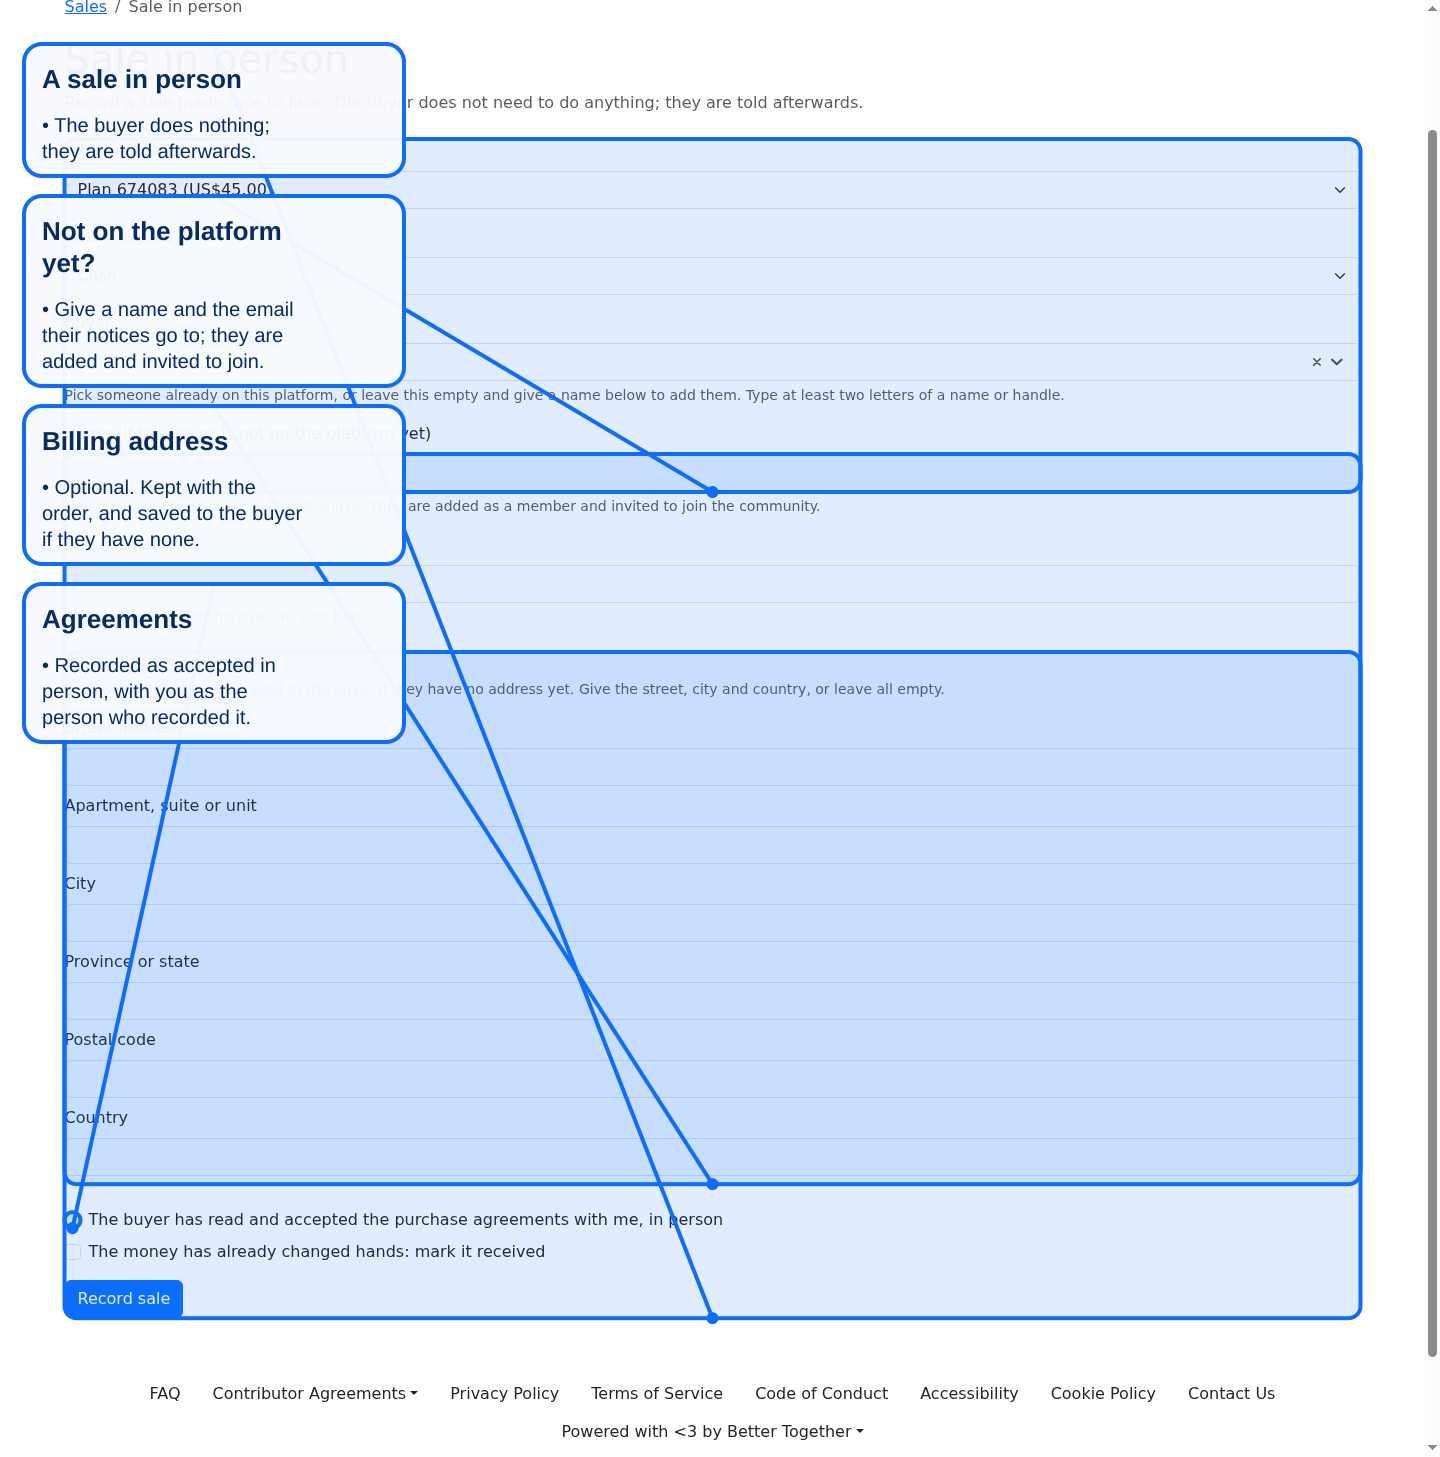
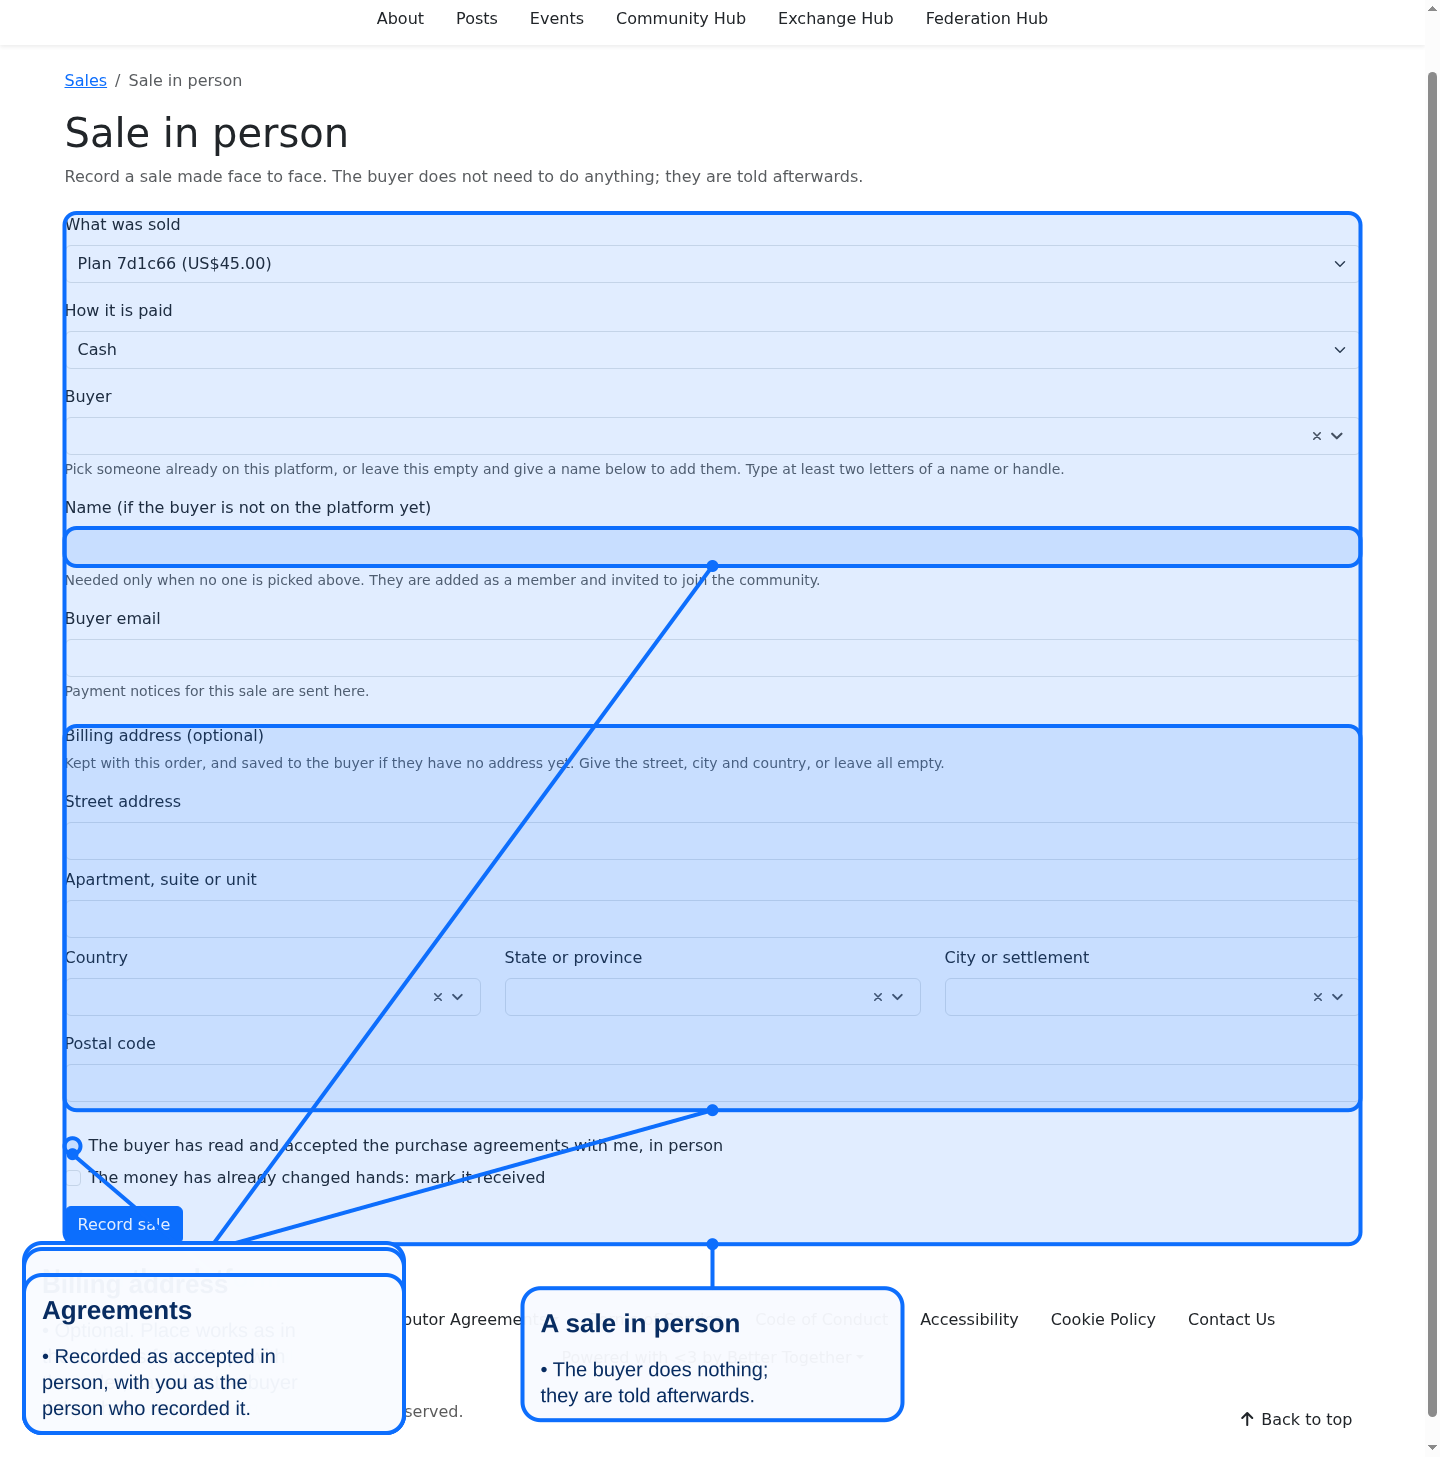
feat(billing): walk-up billing address uses the geography country, state and city selects
The walk-up form now reuses the address form's cascading selects. A chosen record fills in its parents and
overwrites the text columns, a state outside the chosen country is refused, and typed text still works. The
address is built through the Address model for validation, kept on the order with the chosen ids, and tax uses
the linked country and state.

diff --git a/app/services/better_together/billing/offline_payments/walk_up.rb b/app/services/better_together/billing/offline_payments/walk_up.rb
@@ -20,7 +20,8 @@ module BetterTogether
 
         def self.call(...) = new(...).call
 
-        ADDRESS_FIELDS = %w[line1 line2 city_name state_province_name postal_code country_name].freeze
+        ADDRESS_FIELDS = %w[line1 line2 city_name state_province_name postal_code country_name country_id state_id settlement_id].freeze
+        ADDRESS_NAMES = %w[line1 line2 city_name state_province_name postal_code country_name].freeze
         ADDRESS_REQUIRED = %w[line1 city_name country_name].freeze
 
         def initialize(platform:, seller:, plan:, payment_method:, agreements_accepted:, buyer_email:, buyer: nil, buyer_name: nil, # rubocop:disable Metrics/ParameterLists
@@ -30,7 +31,8 @@ module BetterTogether
           @buyer = buyer
           @buyer_name = buyer_name
           @buyer_email = buyer_email.to_s.strip.downcase
-          @billing_address = clean_address(billing_address)
+          @address = build_address(billing_address)
+          @billing_address = snapshot(@address)
           @invitation = nil
           @plan = plan
           @payment_method = payment_method.to_s
@@ -43,6 +45,7 @@ module BetterTogether
           raise Refused, 'that way of paying is not available' unless method_available?
 
           check_buyer_details!
+          check_address!
           order = Order.transaction { sell }
           send_invitation
           order
@@ -74,6 +77,14 @@ module BetterTogether
           billing_address.blank? || ADDRESS_REQUIRED.none? { |key| billing_address[key].blank? }
         end
 
+        # The address goes through the same model as the address form, so a chosen country, state or settlement is
+        # checked against the others and its name is copied into the text columns.
+        def check_address!
+          return if @address.nil? || @address.valid?
+
+          raise Refused, "the billing address is not consistent: #{@address.errors.full_messages.to_sentence}"
+        end
+
         def new_buyer
           result = NewBuyer.call(platform:, inviter: seller, name: buyer_name, email: buyer_email)
           @invitation = result.invitation
@@ -90,15 +101,27 @@ module BetterTogether
 
         # The address given at the sale is theirs to keep: saved on the person when they have none yet.
         def keep_address_on_person
-          return if billing_address.blank? || buyer.addresses.exists?
+          return if @address.nil? || buyer.addresses.exists?
 
           detail = buyer.contact_detail || buyer.create_contact_detail!
-          detail.addresses.create!(billing_address.merge('label' => 'billing', 'postal' => true, 'physical' => false, 'primary_flag' => true))
+          @address.contact_detail = detail
+          @address.save!
         end
 
-        def clean_address(address)
+        def build_address(address)
           values = (address || {}).to_h.stringify_keys.slice(*ADDRESS_FIELDS).transform_values { |value| value.to_s.strip }
-          values.values.all?(&:blank?) ? {} : values
+          return if values.values.all?(&:blank?)
+
+          Address.new(values.merge('label' => 'billing', 'postal' => true, 'physical' => false, 'primary_flag' => true))
+        end
+
+        # What the order keeps: the text as the address form would save it, plus which records were chosen. Built before
+        # validation, so the chosen records' names are filled in here the way the model would.
+        def snapshot(record)
+          return {} unless record
+
+          record.valid?
+          record.attributes.slice(*ADDRESS_NAMES, 'country_id', 'state_id', 'settlement_id').compact_blank
         end
 
         def purpose = @purpose ||= Checkout::Methods.new(platform:, plan:).purpose
@@ -119,28 +142,8 @@ module BetterTogether
                              details: { buyer_email:, billing_address: }, tax_address:)
         end
 
-        # Where the buyer is, for tax: an ISO code (or a country's name) and the state or province's code, as far as they match
-        # known geography. Nothing found means tax is worked out for the seller's own place, as for any order without one.
-        def tax_address
-          country = country_from(billing_address.to_h['country_name'])
-          return {} unless country
-
-          state = state_from(country, billing_address.to_h['state_province_name'])
-          { country_iso: country.iso_code, region_code: state && state.iso_code.split('-', 2).last }.compact
-        end
-
-        def country_from(entry)
-          return if entry.blank?
-
-          Geography::Country.find_by(iso_code: entry.strip.upcase) || Geography::Country.i18n.find_by(name: entry.strip)
-        end
-
-        def state_from(country, entry)
-          return if entry.blank?
-
-          code = "#{country.iso_code}-#{entry.strip.upcase}"
-          Geography::State.find_by(iso_code: code) || country.states.i18n.find_by(name: entry.strip)
-        end
+        # Where the buyer is, for tax; see TaxAddress.
+        def tax_address = TaxAddress.call(@address, billing_address)
       end
     end
   end

diff --git a/spec/features/better_together/billing/walk_up_buyer_lookup_spec.rb b/spec/features/better_together/billing/walk_up_buyer_lookup_spec.rb
@@ -8,6 +8,7 @@ RSpec.describe 'Billing walk-up sale buyer lookup', :accessibility, :js, :skip_h
   include_context 'with offline payment fixtures'
   include_context 'with billing switched on'
 
+  let!(:country) { create(:geography_country, name: 'Walkland') }
   let!(:member) { create(:better_together_person, name: 'Marguerite Okonkwo') }
 
   before do
@@ -23,11 +24,25 @@ RSpec.describe 'Billing walk-up sale buyer lookup', :accessibility, :js, :skip_h
   it 'finds a member by part of their name and selects them as the buyer' do
     expect(page).to have_css('#billing-walk-up-buyer', visible: :all, wait: 10)
     expect(page).to have_css('#billing-walk-up-form .ss-main', wait: 5)
-    all('#billing-walk-up-form .ss-main').last.click
+    buyer_id = find('#billing-walk-up-buyer', visible: :all)['data-id']
+    find(".ss-main[data-id='#{buyer_id}']").click
     find('.ss-content .ss-search input').set('okonk')
     find('.ss-content .ss-option', text: 'Marguerite Okonkwo', wait: 10).click
 
     expect(page).to have_field('billing-walk-up-buyer', with: member.id, type: :select, visible: :all)
+  end
+
+  def choose_country(name)
+    ss_id = find('select#billing_address_country_select', visible: :all)['data-id']
+    find(".ss-main[data-id='#{ss_id}']", match: :first).click
+    find("div.ss-content[data-id='#{ss_id}'] .ss-option", text: name, match: :first, wait: 10).click
+  end
+
+  def type_city(text)
+    ss_id = find('select#billing_address_settlement_select', visible: :all)['data-id']
+    find(".ss-main[data-id='#{ss_id}']", match: :first).click
+    within("div.ss-content[data-id='#{ss_id}']", visible: :all) { find('.ss-search input').set(text) }
+    find("div.ss-content[data-id='#{ss_id}'] .ss-option.ss-create-option--simple", wait: 10).click
   end
 
   it 'records a sale for someone who is not on the platform yet, from their name and email' do
@@ -35,8 +50,8 @@ RSpec.describe 'Billing walk-up sale buyer lookup', :accessibility, :js, :skip_h
     fill_in 'billing-walk-up-buyer-name', with: 'Odalys Fortier'
     fill_in 'billing-walk-up-buyer-email', with: 'odalys@example.test'
     fill_in 'billing-walk-up-address-line1', with: '1 Water St'
-    fill_in 'billing-walk-up-address-city-name', with: 'St. John\'s'
-    fill_in 'billing-walk-up-address-country-name', with: 'Canada'
+    choose_country('Walkland')
+    type_city('Tiny Cove')
     check 'billing-walk-up-agreements'
     click_button 'billing-walk-up-submit'
 
@@ -44,6 +59,7 @@ RSpec.describe 'Billing walk-up sale buyer lookup', :accessibility, :js, :skip_h
     order = BetterTogether::Billing::Order.order(:created_at).last
     expect(order.buyer.name).to eq('Odalys Fortier')
     expect(order.buyer_email).to eq('odalys@example.test')
+    expect(order.billing_address).to include('country_name' => 'Walkland', 'country_id' => country.id)
   end
 
   it 'passes the accessibility scan' do

diff --git a/spec/requests/better_together/billing/walk_up_sales_controller_spec.rb b/spec/requests/better_together/billing/walk_up_sales_controller_spec.rb
@@ -175,6 +175,30 @@ RSpec.describe BetterTogether::Billing::WalkUpSalesController do
         .with(hash_including(tax_address: { country_iso: 'WU', region_code: 'NL' }))
     end
 
+    it 'links a chosen country and state like the address form, copies their names, and taxes at them' do
+      country = create(:geography_country, name: 'Linkland', iso_code: 'LK')
+      state = create(:geography_state, country:, iso_code: 'LK-NL', name: 'Linkstate')
+      allow(BetterTogether::Billing::Orders::Place).to receive(:call).and_call_original
+
+      post path, params: params.merge(billing_address: { line1: '1 Water St', city_name: 'Town', country_id: country.id, state_id: state.id })
+
+      order = BetterTogether::Billing::Order.order(:created_at).last
+      expect(order.billing_address).to include('country_name' => 'Linkland', 'state_province_name' => 'Linkstate', 'country_id' => country.id)
+      expect(buyer.reload.addresses.first).to have_attributes(country_id: country.id, state_id: state.id)
+      expect(BetterTogether::Billing::Orders::Place).to have_received(:call)
+        .with(hash_including(tax_address: { country_iso: 'LK', region_code: 'NL' }))
+    end
+
+    it 'refuses a state that is not in the chosen country' do
+      country = create(:geography_country, name: 'Onel', iso_code: 'ON')
+      other = create(:geography_state, country: create(:geography_country, name: 'Twol', iso_code: 'TW'), iso_code: 'TW-XX')
+
+      expect do
+        post path, params: params.merge(billing_address: { line1: '1 Water St', city_name: 'Town', country_id: country.id, state_id: other.id })
+      end.not_to change(BetterTogether::Billing::Order, :count)
+      expect(response).to have_http_status(:unprocessable_content)
+    end
+
     it 'leaves a buyer\'s existing address alone' do
       detail = buyer.contact_detail || buyer.create_contact_detail!
       detail.addresses.create!(line1: 'Old Rd', city_name: 'Paradise', country_name: 'Canada', postal: true, physical: false, label: 'home')

diff --git a/app/services/better_together/billing/offline_payments/tax_address.rb b/app/services/better_together/billing/offline_payments/tax_address.rb
@@ -1,0 +1,42 @@
+# frozen_string_literal: true
+
+module BetterTogether
+  module Billing
+    module OfflinePayments
+      # Where a walk-up buyer is, for tax: an ISO country code and the state or province's code. A country and state chosen
+      # from the geography records are used as they are; typed text is matched on an ISO code or a name. Nothing found means
+      # tax is worked out for the seller's own place, as for any order without one.
+      class TaxAddress
+        def self.call(...) = new(...).call
+
+        def initialize(address, snapshot)
+          @address = address
+          @snapshot = snapshot.to_h
+        end
+
+        def call
+          country = @address&.country || country_from(@snapshot['country_name'])
+          return {} unless country
+
+          state = @address&.state || state_from(country, @snapshot['state_province_name'])
+          { country_iso: country.iso_code, region_code: state && state.iso_code.split('-', 2).last }.compact
+        end
+
+        private
+
+        def country_from(entry)
+          return if entry.blank?
+
+          Geography::Country.find_by(iso_code: entry.strip.upcase) || Geography::Country.i18n.find_by(name: entry.strip)
+        end
+
+        def state_from(country, entry)
+          return if entry.blank?
+
+          code = "#{country.iso_code}-#{entry.strip.upcase}"
+          Geography::State.find_by(iso_code: code) || country.states.i18n.find_by(name: entry.strip)
+        end
+      end
+    end
+  end
+end

diff --git a/spec/docs_screenshots/better_together/billing_offline_payments_spec.rb b/spec/docs_screenshots/better_together/billing_offline_payments_spec.rb
@@ -113,7 +113,7 @@ RSpec.describe 'Documentation screenshots for paying outside the platform', # ru
                  { id: 'new-buyer', selector: '#billing-walk-up-buyer-name', title: 'Not on the platform yet?', avoid_container_selector: 'main',
                    bullets: ['Give a name and the email their notices go to; they are added and invited to join.'] },
                  { id: 'address', selector: '#billing-walk-up-address', title: 'Billing address', avoid_container_selector: 'main',
-                   bullets: ['Optional. Kept with the order, and saved to the buyer if they have none.'] },
+                   bullets: ['Optional. Place works as in the address form. Kept with the order; saved to the buyer if they have none.'] },
                  { id: 'agreements', selector: '#billing-walk-up-agreements', title: 'Agreements', avoid_container_selector: 'main',
                    bullets: ['Recorded as accepted in person, with you as the person who recorded it.'] }]
     ) do

diff --git a/spec/dom_contracts/billing_offline_payments_spec.rb b/spec/dom_contracts/billing_offline_payments_spec.rb
@@ -118,7 +118,8 @@ RSpec.describe 'Billing offline payments DOM contract', type: :request do # rubo
 
       expect_ids('billing-walk-up-page', 'billing-walk-up-form', 'billing-walk-up-plan', 'billing-walk-up-method', 'billing-walk-up-buyer',
                  'billing-walk-up-buyer-name', 'billing-walk-up-buyer-email', 'billing-walk-up-address', 'billing-walk-up-address-line1',
-                 'billing-walk-up-address-country-name', 'billing-walk-up-agreements', 'billing-walk-up-received', 'billing-walk-up-submit')
+                 'billing_address_country_select', 'billing_address_state_select',
+                 'billing-walk-up-agreements', 'billing-walk-up-received', 'billing-walk-up-submit')
     end
 
     it 'exposes the message when there is nothing to sell' do

diff --git a/docs/billing/offline_payment_methods.md b/docs/billing/offline_payment_methods.md
@@ -106,7 +106,7 @@ A seller who takes cash across a counter does not want the buyer to have to do a
 - The order is placed for the buyer (`seller_assisted: true`); if the money has changed hands it is confirmed at once. The buyer is told afterwards.
 - **A buyer who is not on the platform yet** is added from a name and an email address. The email is always required, for new and existing buyers alike (`Orders::Place` stores it on the order as `buyer_email`, encrypted). A new person is created with that email as their primary one, made a platform member, and sent a community invitation once the sale is saved, so signing up reuses the same person (`OfflinePayments::NewBuyer`). If the email already belongs to a person, that person is used and no invitation is sent.
 - **Payment notices for this order go to `buyer_email`**, not to the person's own address, for both new and existing buyers (`Billing::Notifier#address_for`). Notices never carry the seller's payee details.
-- **Billing address** is optional. If started it needs a street, city and country. It is kept on the order (`billing_address`, encrypted) and saved on the buyer's contact details when they have none.
+- **Billing address** is optional. If started it needs a street, city and country. Country, state and city are the same cascading geography selects as the address form (`addresses/_geography_fields`): a chosen record fills in its parents, a state must belong to the chosen country, and "use typed text" keeps free text. A linked country and state also set where the sale is taxed. It is kept on the order (`billing_address`, encrypted) and saved on the buyer's contact details when they have none.
 
 ## Expiry and reminders
 
